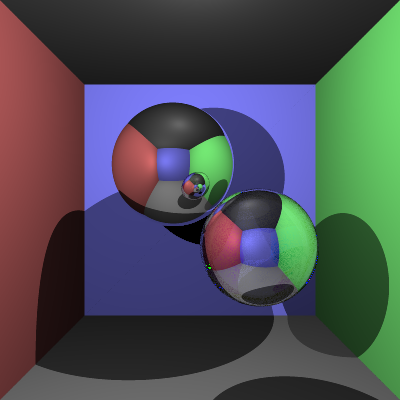
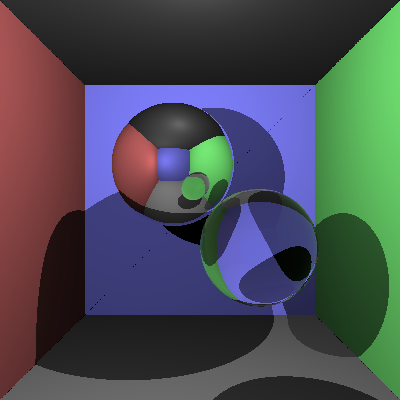
Fixed refraction

diff --git a/src/scene/Scene.cs b/src/scene/Scene.cs
@@ -88,7 +88,7 @@ namespace RayTracer
             foreach (SceneEntity entity in this.entities)
             {
                 RayHit hit = entity.Intersect(ray);
-                if (hit != null && (nearestHit == null || (hit.Position - ray.Origin).LengthSq() < (nearestHit.Position - ray.Origin).LengthSq()))
+                if (hit != null && (hit.Position - ray.Origin).LengthSq() > Double.Epsilon && (nearestHit == null || (hit.Position - ray.Origin).LengthSq() < (nearestHit.Position - ray.Origin).LengthSq()))
                 {
                     nearestHit = hit;
                     hitEntity = entity;
@@ -153,12 +153,14 @@ namespace RayTracer
                 case Material.MaterialType.Refractive:
                     double refractiveIndex1 = inShape ? entity.Material.RefractiveIndex : 1;
                     double refractiveIndex2 = inShape ? 1 : entity.Material.RefractiveIndex;
-                    if (inShape)
-                    {
-                        return RefractedColor(entity, hit, refractiveIndex1, refractiveIndex2, inShape, depth - 1);
-                    }
-                    double fresnelProportion = FresnelProportion(refractiveIndex1, refractiveIndex2, hit.Incident, hit.Normal.Normalized());
-                    return RefractedColor(entity, hit, refractiveIndex1, refractiveIndex2, inShape, depth - 1) * fresnelProportion + ReflectedColor(entity, hit, inShape, depth - 1) * (1 - fresnelProportion);
+                    double refractiveIndexRatio = refractiveIndex1 / refractiveIndex2;
+                    //if (inShape)
+                    //{
+                    //    return RefractedColor(entity, hit, refractiveIndexRatio, inShape, depth - 1);
+                    //}
+                    double fresnelProportion = FresnelProportion(refractiveIndex2, hit);
+                    //Console.WriteLine(fresnelProportion);
+                    return RefractedColor(entity, hit, refractiveIndexRatio, inShape, depth - 1) * (1 - fresnelProportion) + ReflectedColor(entity, hit, inShape, depth - 1) * fresnelProportion;
                 case Material.MaterialType.Glossy:
                     double REFLECTIVITY = 0.5;
                     Color colorSum = new Color(0, 0, 0);
@@ -183,8 +185,8 @@ namespace RayTracer
 
         private Color ReflectedColor(SceneEntity entity, RayHit currentHit, bool inShape, int depth)
         {
-            Vector3 normalisedNormal = currentHit.Normal.Normalized();
-            Ray reflectedRay = new Ray(currentHit.Position, currentHit.Incident - 2 * currentHit.Incident.Dot(normalisedNormal) * normalisedNormal);
+            Vector3 reflectionDirection = currentHit.Incident - 2 * currentHit.Incident.Dot(currentHit.Normal) * currentHit.Normal;
+            Ray reflectedRay = new Ray(reflectionDirection.Dot(currentHit.Normal) < 0 ? currentHit.Position - currentHit.Normal * 0.00001 : currentHit.Position + currentHit.Normal * 0.00001, reflectionDirection.Normalized());
             RayHit? nearestHit = null;
             SceneEntity? hitEntity = null;
             foreach (SceneEntity targetEntity in this.entities)
@@ -202,16 +204,16 @@ namespace RayTracer
             return hitEntity != null && nearestHit != null ? PixelColor(hitEntity, nearestHit, inShape, depth - 1) : new Color(0, 0, 0);
         }
 
-        private Color RefractedColor(SceneEntity entity, RayHit currentHit, double refractiveIndex1, double refractiveIndex2, bool inShape, int depth)
+        private Color RefractedColor(SceneEntity entity, RayHit currentHit, double refractiveIndexRatio, bool inShape, int depth)
         {
-            double refractiveIndexRatio = refractiveIndex1 / refractiveIndex2;
             double cosI = Math.Abs(currentHit.Normal.Dot(currentHit.Incident));
             double sinT2 = Math.Pow(refractiveIndexRatio, 2) * (1 - Math.Pow(cosI, 2));
             if (sinT2 > 1)
             {
                 return new Color(0, 0, 0);
             }
-            Ray refractedRay = new Ray(currentHit.Position, refractiveIndexRatio * currentHit.Incident + (refractiveIndexRatio * cosI - Math.Sqrt(1 - sinT2)) * currentHit.Normal);
+            Vector3 refractionDirection = refractiveIndexRatio * currentHit.Incident + (refractiveIndexRatio * cosI - Math.Sqrt(1 - sinT2)) * currentHit.Normal;
+            Ray refractedRay = new Ray(refractionDirection.Dot(currentHit.Normal) < 0 ? currentHit.Position - currentHit.Normal * 0.00001 : currentHit.Position + currentHit.Normal * 0.00001, refractionDirection.Normalized());
             RayHit? nearestHit = null;
             SceneEntity? hitEntity = null;
             foreach (SceneEntity targetEntity in this.entities)
@@ -226,20 +228,22 @@ namespace RayTracer
             return hitEntity != null && nearestHit != null ? PixelColor(hitEntity, nearestHit, !inShape, depth - 1) : new Color(0, 0, 0);
         }
 
-        private double FresnelProportion(double refractiveIndex1, double refractiveIndex2, Vector3 incidentVector, Vector3 normalVector)
+        private Double FresnelProportion(Double refractiveIndex, RayHit hit)
         {
-            double refraction = Math.Pow((refractiveIndex1 - refractiveIndex2) / (refractiveIndex1 + refractiveIndex2), 2);
-            double cosX = -normalVector.Dot(incidentVector);
-            if (refractiveIndex1 > refractiveIndex2)
+            double cosi = Math.Clamp(hit.Incident.Dot(hit.Normal), -1, 1);
+            double etai = cosi > 0 ? refractiveIndex : 1.0;
+            double etat = cosi > 0 ? 1.0 : refractiveIndex;
+            double sint = etai / etat * Math.Sqrt(Math.Max(0, 1 - Math.Pow(cosi, 2)));
+            double kr = 1.0;
+            if (sint < 1)
             {
-                double sinT2 = Math.Pow(refractiveIndex1, 2) * (1 - Math.Pow(cosX, 2));
-                if (sinT2 > 1)
-                {
-                    return 1;
-                }
-                cosX = Math.Sqrt(1 - sinT2);
+                double cost = Math.Sqrt(Math.Max(0, 1 - Math.Pow(sint, 2)));
+                cosi = Math.Abs(cosi);
+                double Rs = ((etat * cosi) - (etai * cost)) / ((etat * cosi) + (etai * cost));
+                double Rp = ((etai * cosi) - (etat * cost)) / ((etai * cosi) + (etat * cost));
+                kr = (Rs * Rs + Rp * Rp) / 2;
             }
-            return refraction + (1 - refraction) * Math.Pow(1 - cosX, 5);
+            return kr;
         }
     }
 }

diff --git a/src/scene/primitives/Sphere.cs b/src/scene/primitives/Sphere.cs
@@ -61,7 +61,12 @@ namespace RayTracer
                 }
             }
             Vector3 hitLocation = ray.Origin + time0 * ray.Direction;
-            return new RayHit(hitLocation, (hitLocation - this.center).Normalized(), ray.Direction, this.material);
+            Vector3 hitNormal = (hitLocation - this.center).Normalized();
+            if (ray.Direction.Dot(hitNormal) > 0)
+            {
+                hitNormal *= -1;
+            }
+            return new RayHit(hitLocation, hitNormal, ray.Direction, this.material);
         }
 
         /// <summary>

diff --git a/src/scene/primitives/Triangle.cs b/src/scene/primitives/Triangle.cs
@@ -36,7 +36,7 @@ namespace RayTracer
             Vector3 v0v2 = this.v2 - this.v0;
             Vector3 normal = v0v1.Cross(v0v2);
             double dotDirection = normal.Dot(ray.Direction);
-            if (-dotDirection < double.Epsilon)
+            if (Math.Abs(dotDirection) < double.Epsilon)
             {
                 return null;
             }
